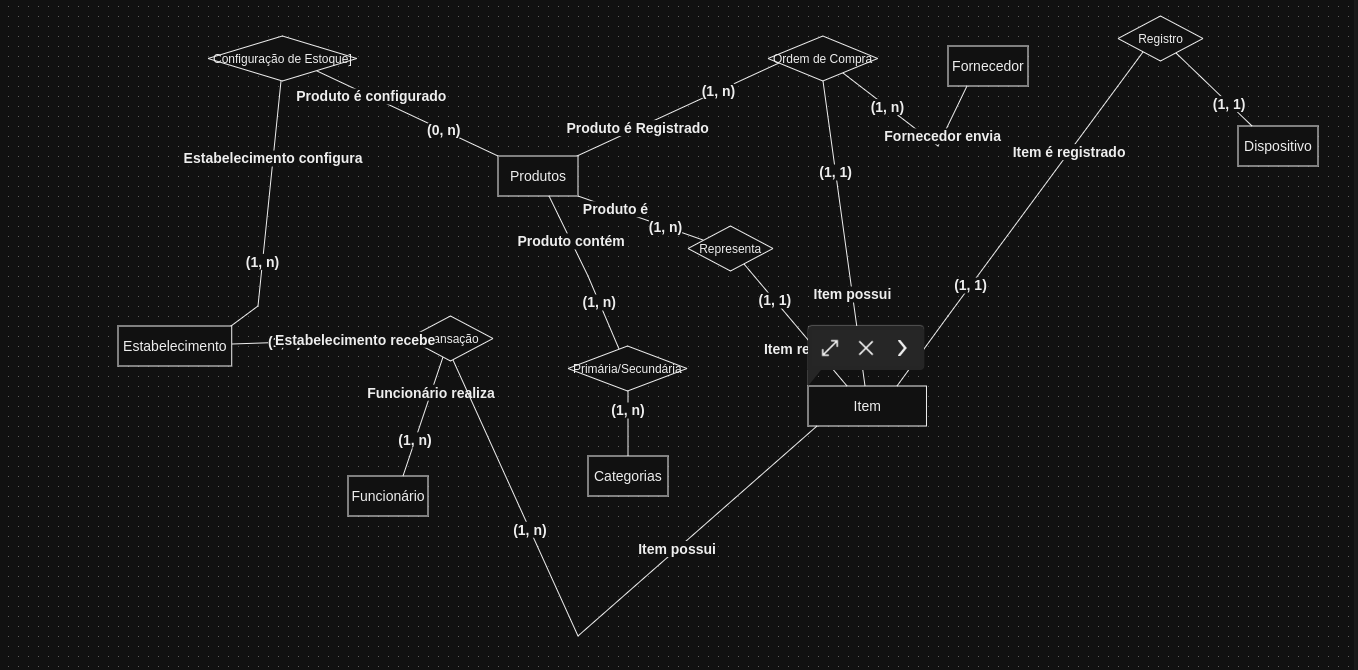
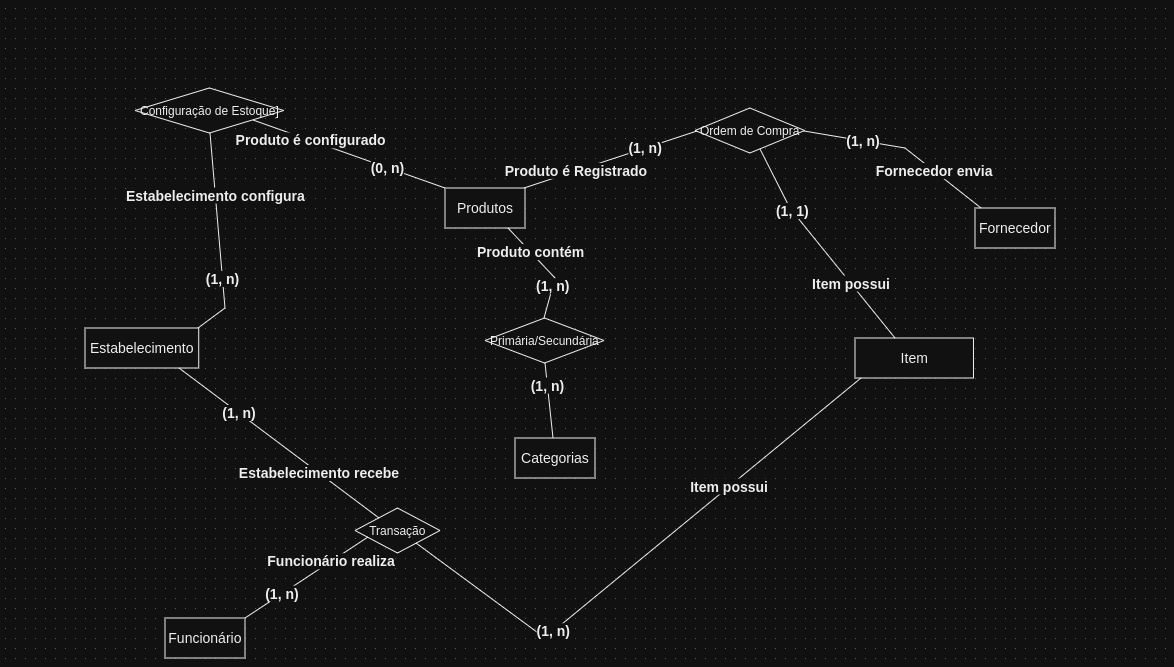
feat: finish trilha pratica bd

diff --git a/README.md b/README.md
@@ -168,10 +168,9 @@ Como o sistema deve ter informações individuais por produto, então vale a cri
 
 - **tbl_item:** tabela que concentra informações sobre os itens individuais relacionados aos produtos (unidades individuais no estoque). Cada item pertence a um produto da tabela **tbl_produto**.
   - `cp_id_item [int, incremental]`: código identificador do item individual. Único e incremental.
-  - `ce_produto [int, 8 bytes]`: chave estrangeira que define o produto ao qual o item pertence. Refere-se ao `cp_id_produto` da **tbl_produto**.
-  - `ce_rfid [int, 8 bytes]`: chave estrangeira que define o rfid do item. Refere-se ao `cp_id_dispositivo` da **tbl_rfid**.
   - `ce_lote_venda [int, 8 bytes]`: chave estrangeira que define o lote de venda ao qual o item pertence. Refere-se ao `cp_id_ordem` da **tbl_ordem_compra**.
-  - `ce_ultima_transacao [int, 8 bytes]`: chave estrangeira que define a última transação feita para o item. Refere-se ao `cp_id_transacao` da **tbl_transacao**.
+  - `code_rfid [str]`: código do dispositivo RFID
+  - `status [int, 8 bytes]`: status de venda do item
 
 - **tbl_transacao:** tabela que concentra informações sobre as transações realizadas para os itens individuais. Isso inclui compras, transferências e vendas.
   - `cp_id_transacao [int, incremental]`: código identificador da transação. Único e incremental.
@@ -179,7 +178,7 @@ Como o sistema deve ter informações individuais por produto, então vale a cri
   - `dt_transacao [date]`: data em que a transação foi realizada.
   - `tp_transacao [string, 20 caracteres]`: tipo da transação, podendo ser "compra", "transferencia" ou "venda".
   - `ce_estab_origem [int, 8 bytes]`: chave estrangeira que define o estabelecimento de origem da transação. Refere-se ao `cp_cod_estab` da **tbl_estabelecimento**. Pode ser nulo (por exemplo, em uma compra).
-  - `ce_estab_destino [int, 8 bytes]`: chave estrangeira que define o estabelecimento de destino da transação. Refere-se ao `cp_cod_estab` da **tbl_estabelecimento**. Pode ser nulo (por exemplo, em uma venda).
+  - `ce_funcionario [int, 8 bytes]`: chave estrangeira que define o funcionário que executará a transação
 
 
 ---
